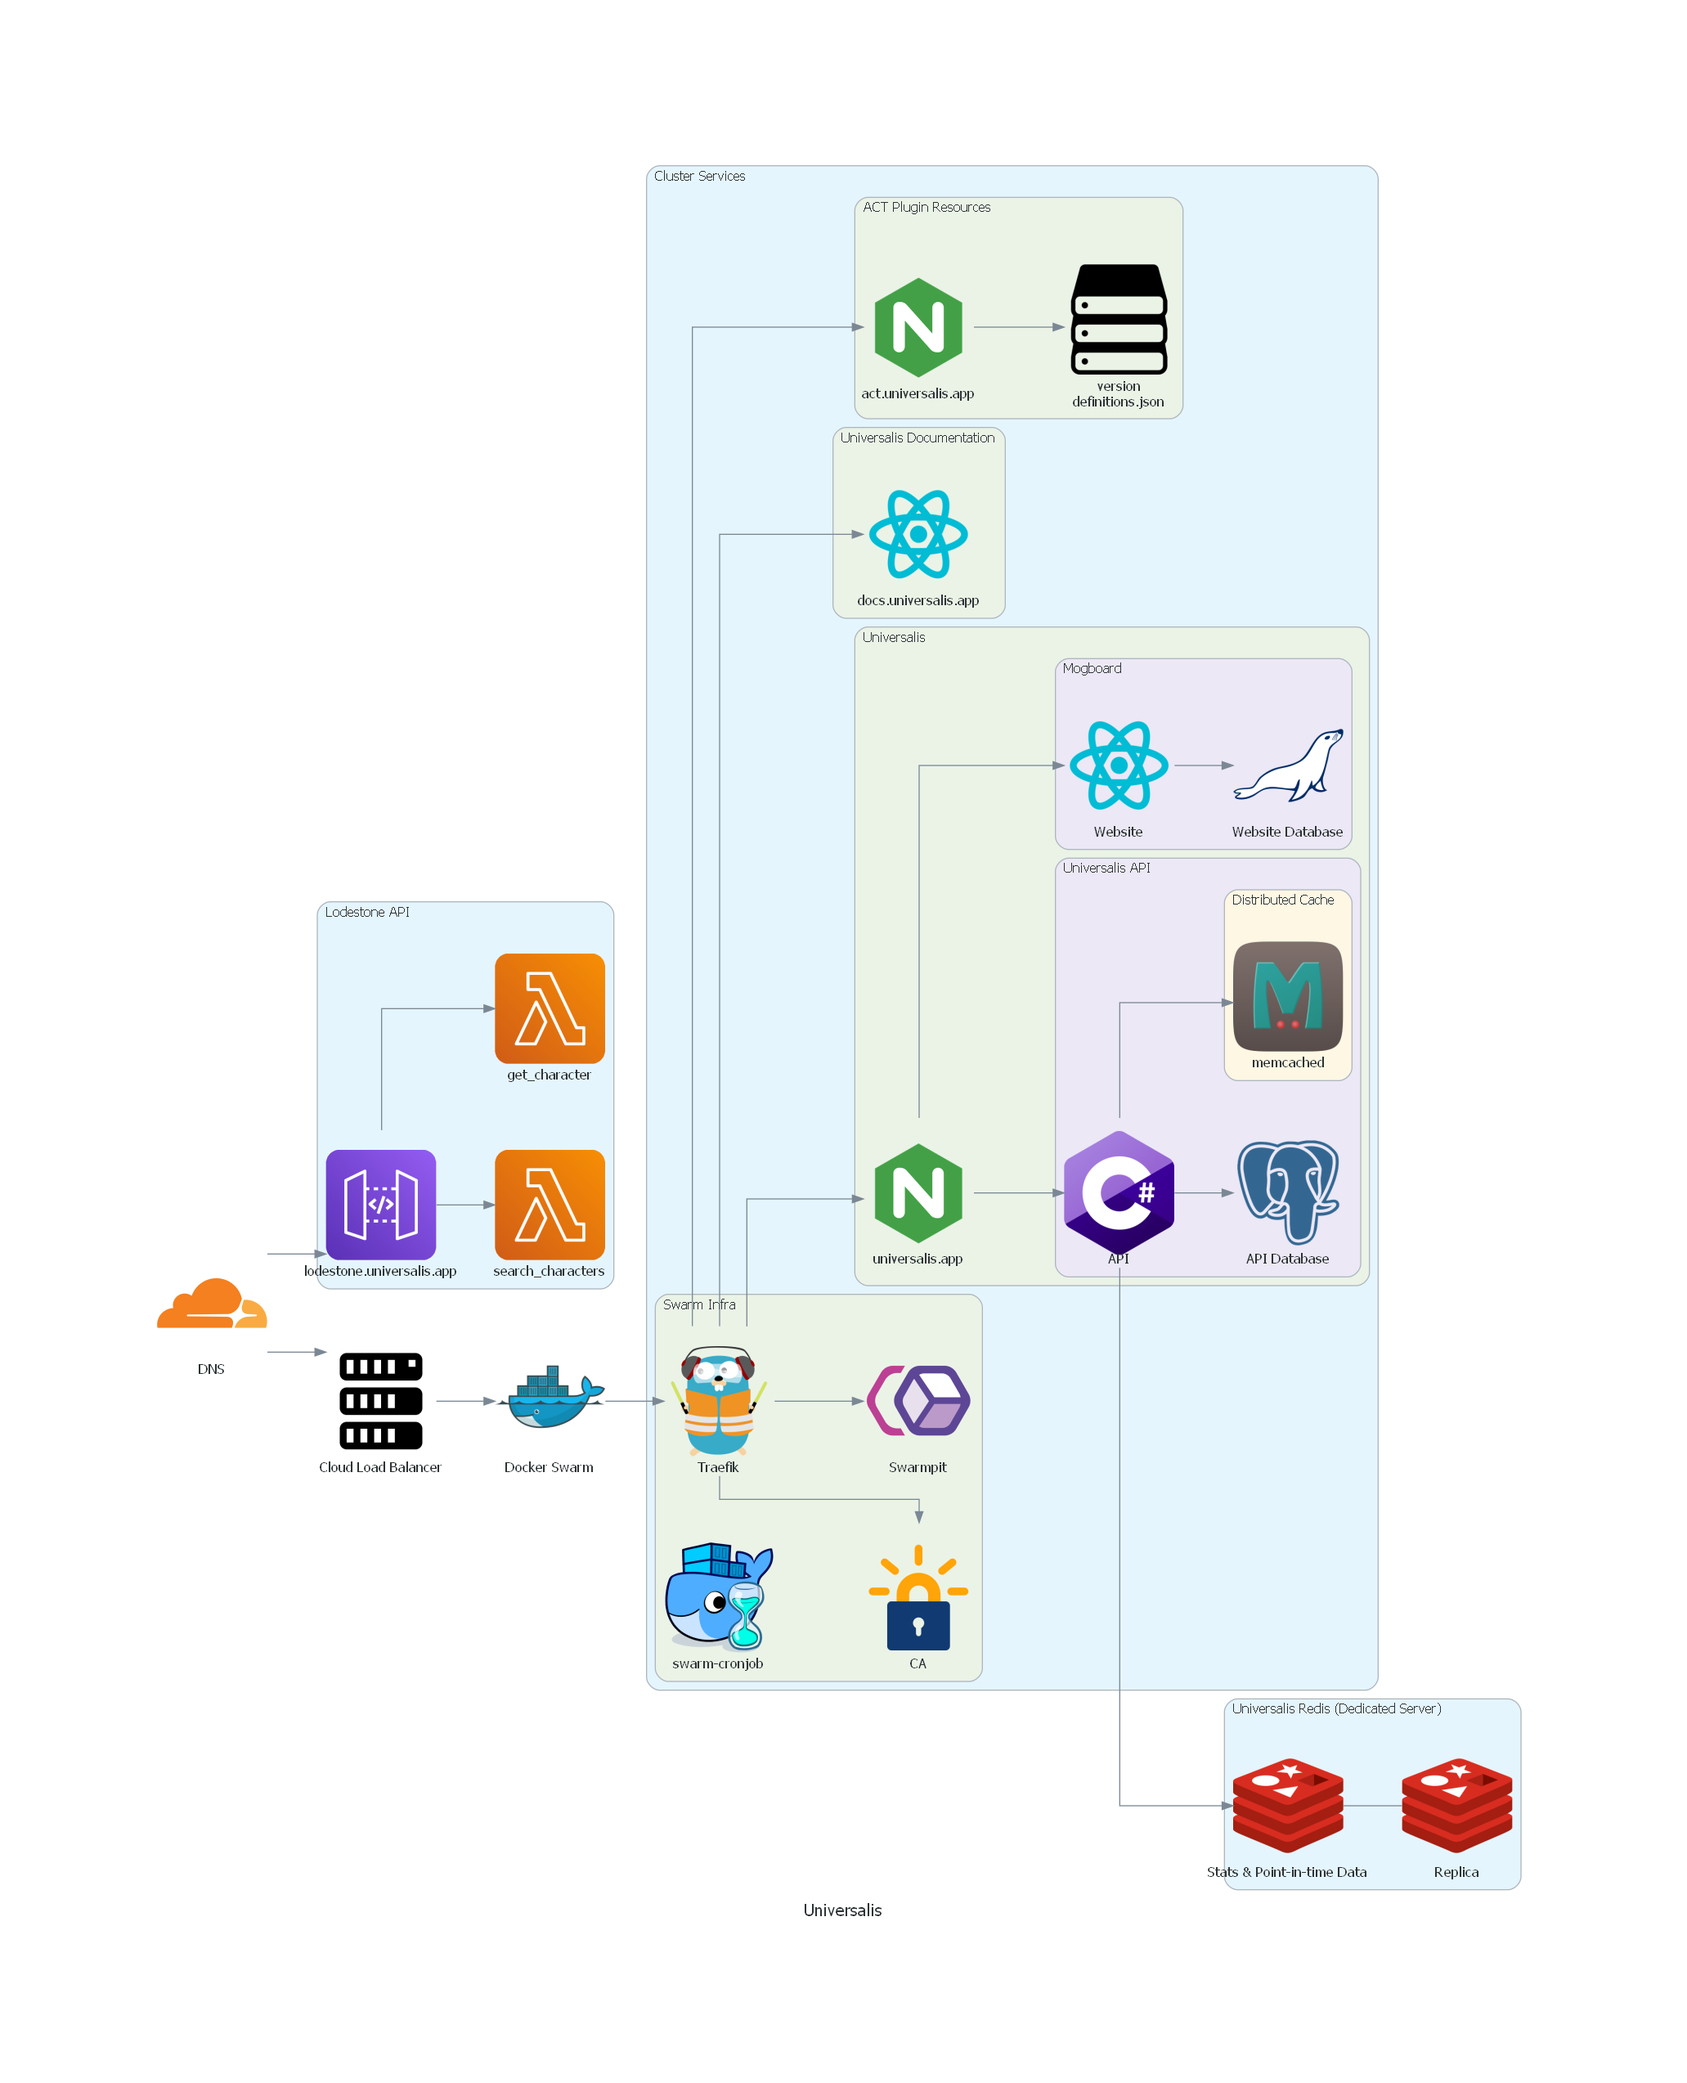
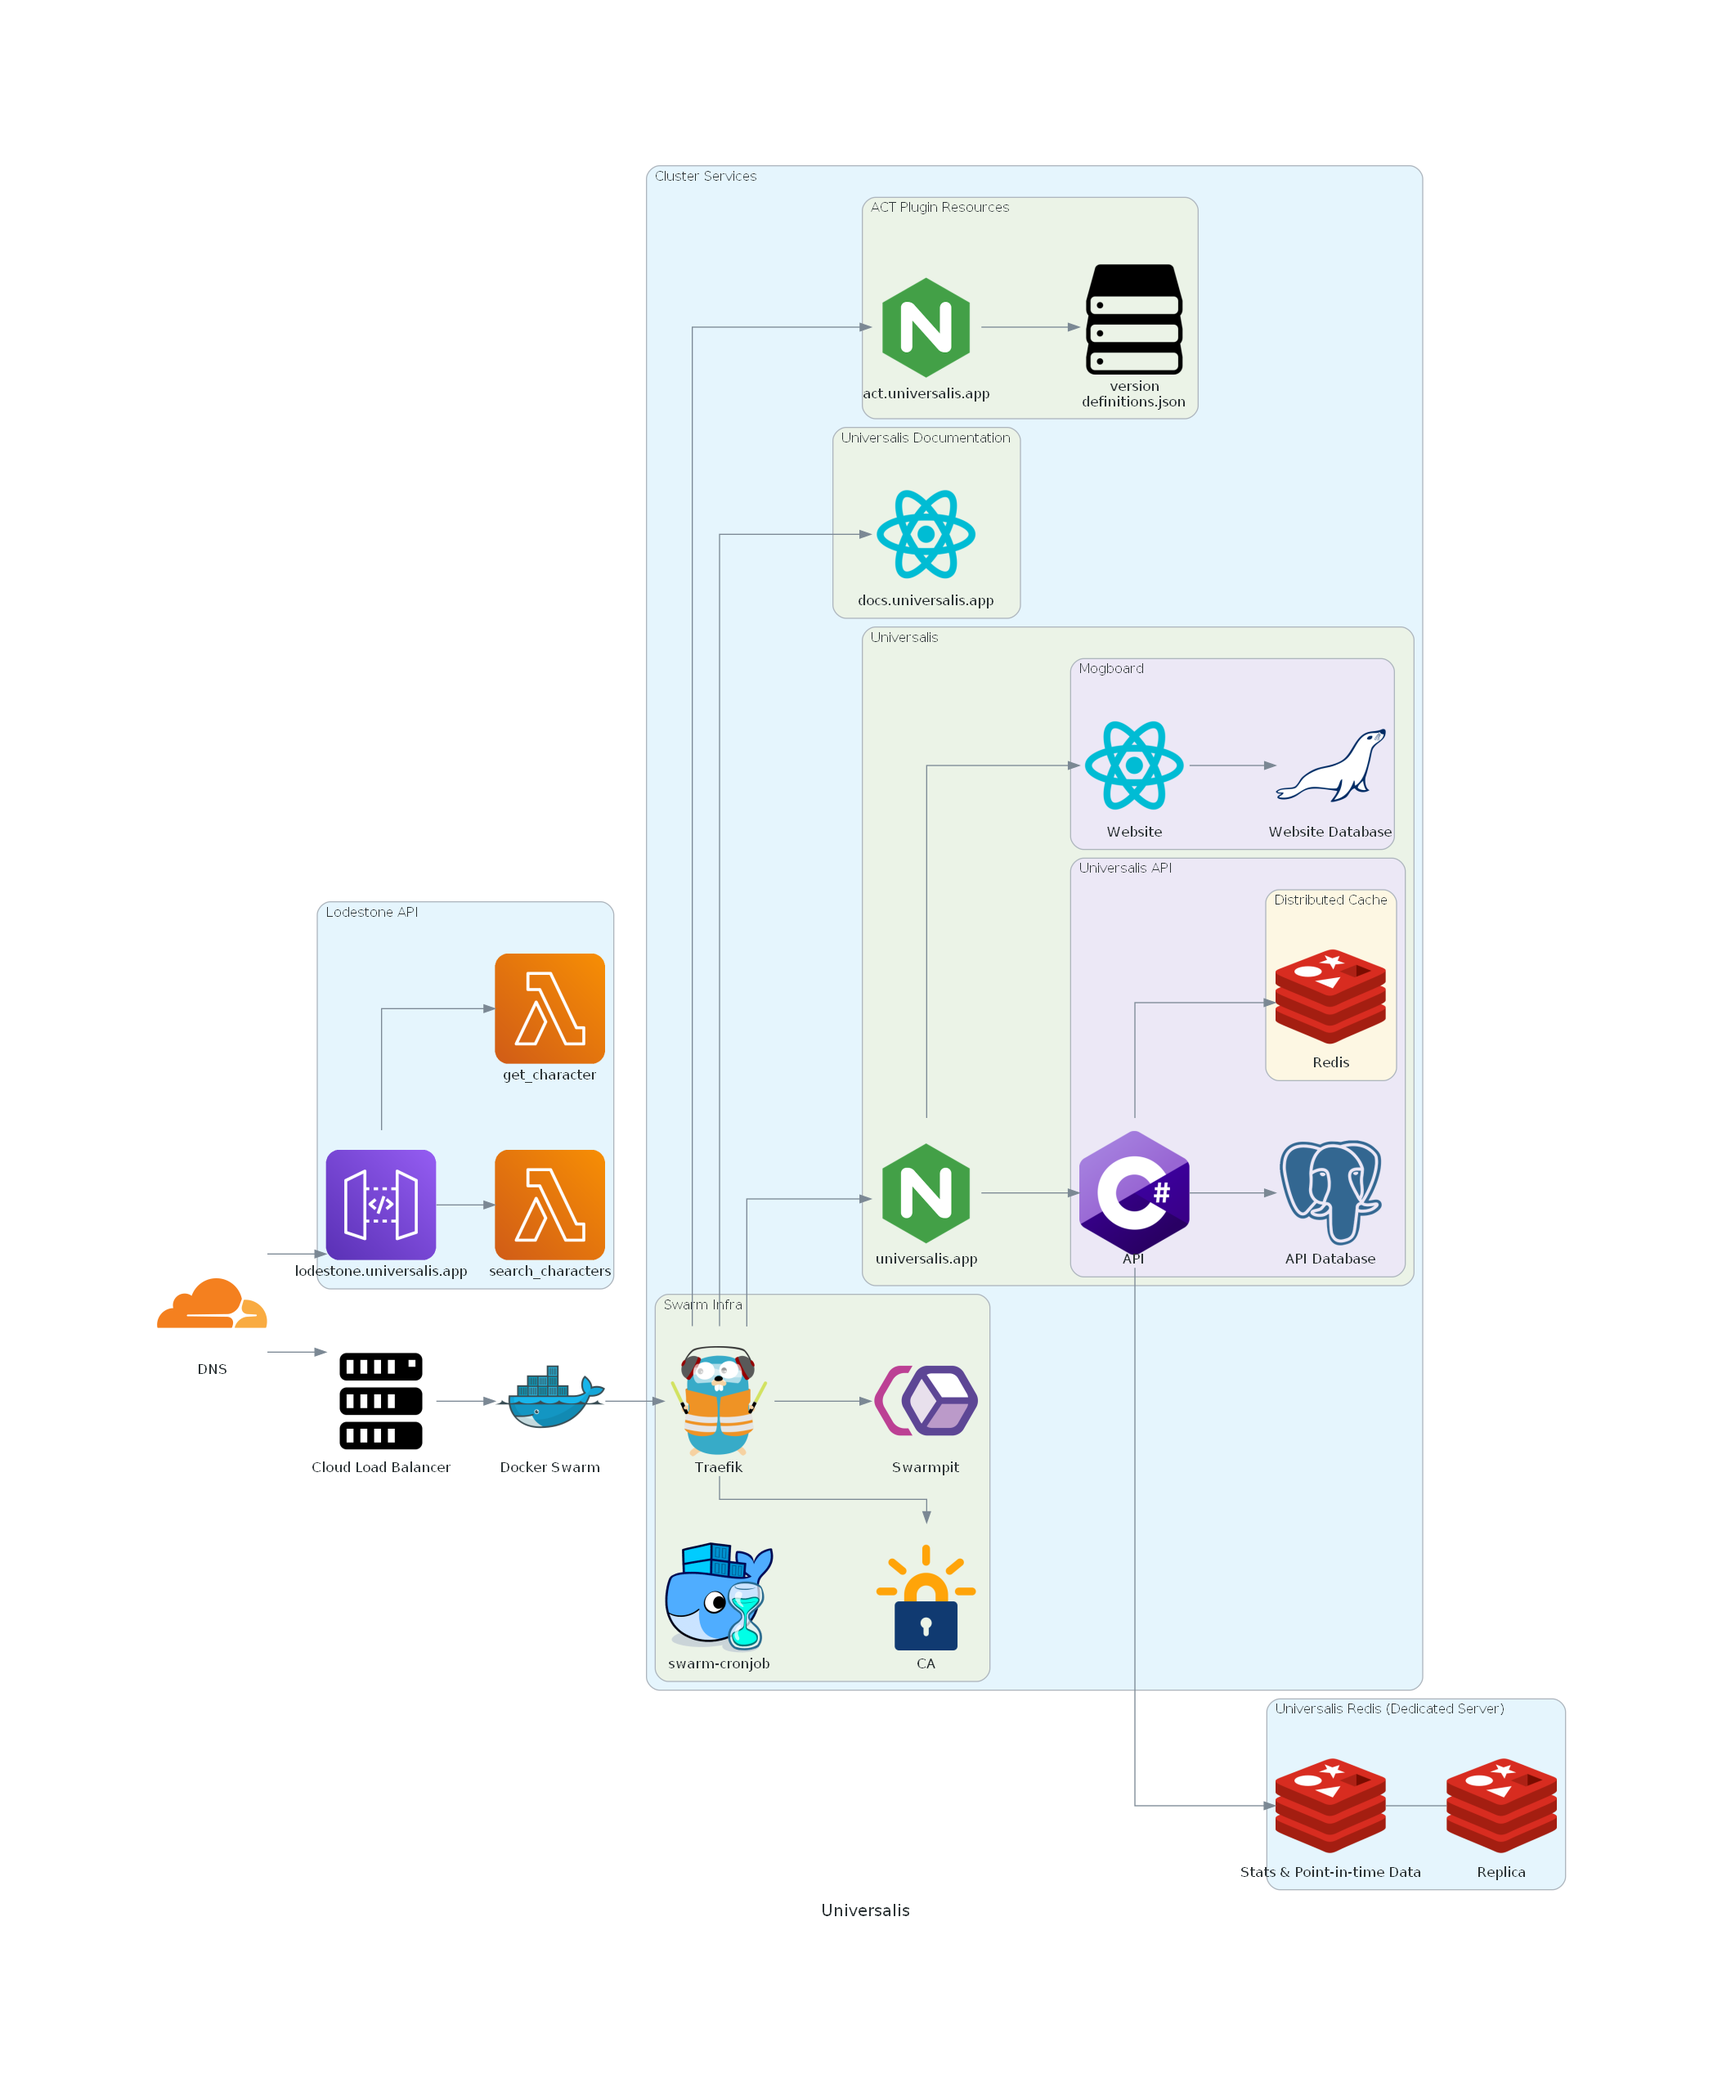
Set up Redis cache cluster

diff --git a/viz/diagram.py b/viz/diagram.py
@@ -7,7 +7,7 @@ from diagrams.onprem.certificates import LetsEncrypt
 from diagrams.onprem.compute import Server
 from diagrams.onprem.container import Docker
 from diagrams.onprem.database import Postgresql, Mariadb
-from diagrams.onprem.inmemory import Redis, Memcached
+from diagrams.onprem.inmemory import Redis
 from diagrams.onprem.network import Nginx, Traefik
 from diagrams.programming.framework import React
 from diagrams.programming.language import Csharp
@@ -60,7 +60,7 @@ with Diagram("Universalis", show=False):
                 universalis_db = Postgresql("API Database")
 
                 with Cluster("Distributed Cache"):
-                    universalis_cache = Memcached("memcached")
+                    universalis_cache = Redis("Redis")
 
                 universalis_api >> universalis_redis  # type: ignore
                 universalis_api >> universalis_db  # type: ignore
